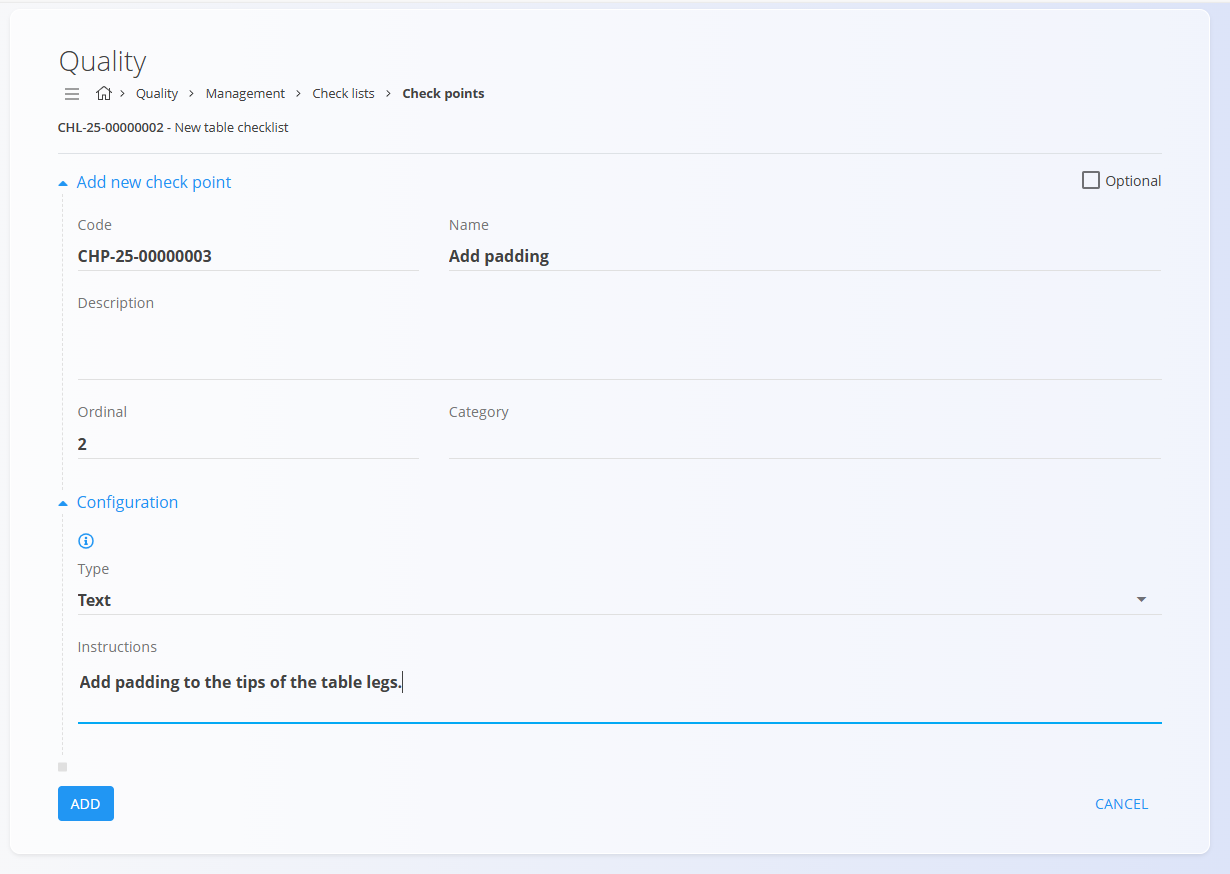
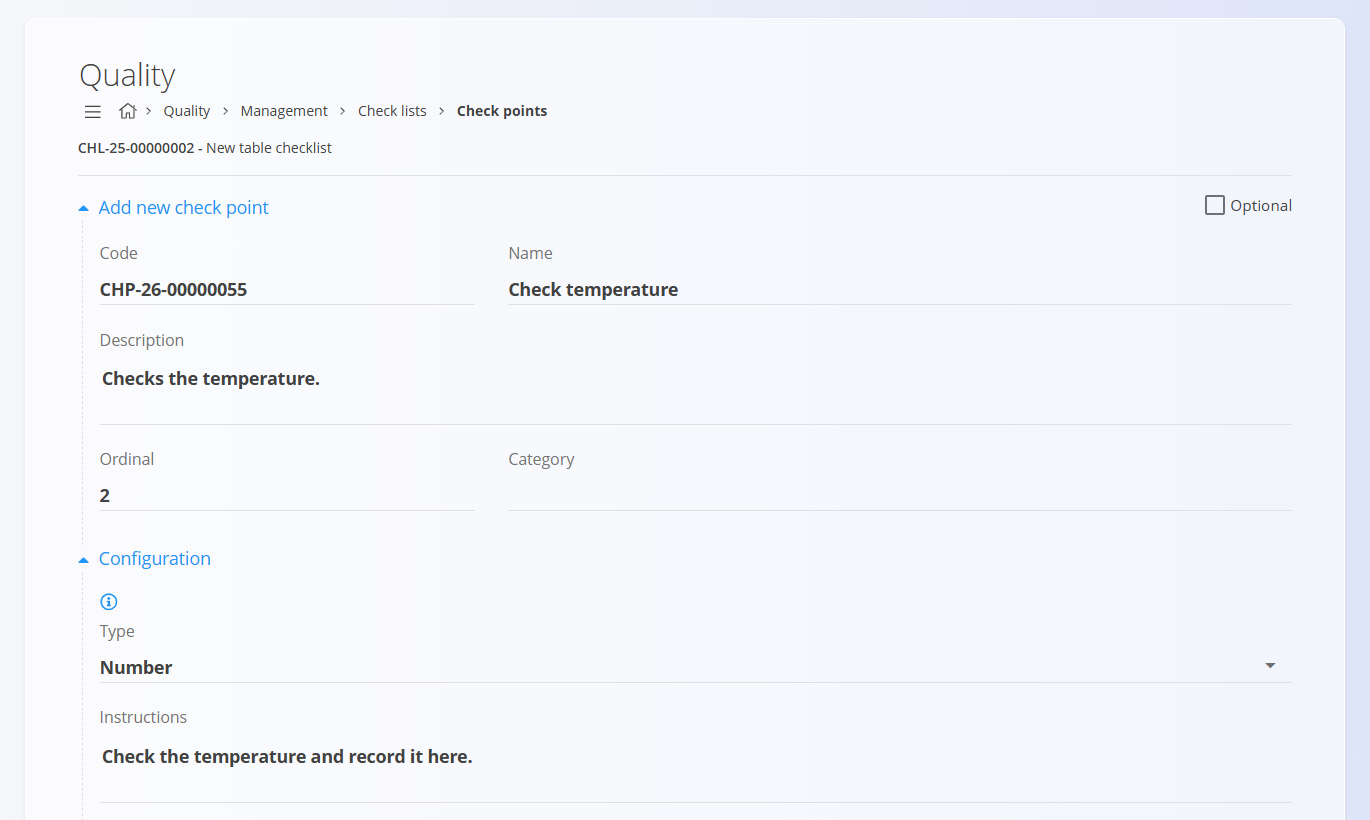
docs(en,sl,hr): document number bounds and other check point types
Number check points now use Lower bound and Upper bound, each with an
inclusive or exclusive operator, instead of Min and Max value. Add a
short explanation and an example for each check point type, the
Optional checkbox, and updated screenshots for the Number form and the
add form.

diff --git a/sl/Domene/Kvaliteta/Upravljanje/KontrolneTocke.md b/sl/Domene/Kvaliteta/Upravljanje/KontrolneTocke.md
@@ -9,7 +9,7 @@ Kontrolne točke pripadajo posamezni **[Kontrolni listi](KontrolneListe.md)** in
 
 Za dostop do kontrolnih točk pojdite na **Kakovost / Upravljanje / Kontrolne liste** v [navigaciji](../../../Skupno/UI/Navigacija.md) in pri želenem kontrolnem seznamu kliknite **Kontrolne točke**.
 
-![Navigacija do kontrolnih točk](../Images/CheckpointButton.png)
+![Navigacija do kontrolnih točk](../Images/CheckpointButtonSL.png)
 
 > [!TIP]
 > Za celovit prikaz si oglejte video vodič **[Kontrolne točke kakovosti](https://www.youtube.com/watch?v=EB7WktBCFC4)**.
@@ -69,9 +69,11 @@ Kontrolne točke je mogoče brisati, razen če je to omejeno z nastavitvami delo
 
 ## Posebnosti glede na tip
 
-Določena polja se prikažejo ali postanejo obvezna glede na izbran **Tip**.
+Določena polja se prikažejo ali postanejo obvezna glede na izbran **Tip**. Za vse tipe potrditveno polje **Neobvezno** določa, ali mora izvajalec kontrolno točko izpolniti.
 
 ### Tip: Označi
+
+Tip **Označi** uporabite za korak, ki ga izvajalec potrdi s kljukico, na primer »Varovalo je nameščeno« ali »Nalepka je pritrjena«. Izvajalec označi potrditveno polje ob **Potrditvenem besedilu**, s čimer je kontrolna točka opravljena. Potrditveno besedilo naj jasno pove, kaj izvajalec potrjuje.
 
 Pri izbiri tipa **Označi** se prikaže dodatno polje:
 
@@ -80,6 +82,8 @@ Pri izbiri tipa **Označi** se prikaže dodatno polje:
 | **Potrditveno besedilo** | Text | Besedilo, prikazano ob potrditvenem polju. |
 
 ### Tip: Seznam
+
+Tip **Seznam** uporabite, kadar izvajalec izbira med vnaprej določenimi možnostmi, na primer »Videz: dober / opraskan / poškodovan«. Nastavite **Število veljavnih vrednosti** na **Ena**, če je mogoče izbrati le eno možnost, ali na **Več**, če lahko velja več možnosti. Možnost, označena kot **Veljavno**, predstavlja sprejemljiv rezultat. Pri kontroli kakovosti neveljavna možnost pomeni težavo, na primer opraskano površino.
 
 Pri izbiri tipa **Seznam** se prikažejo dodatne nastavitve:
 
@@ -103,16 +107,30 @@ Dodane vrednosti so prikazane v tabeli:
 
 ### Tip: Številka
 
+Tip **Številka** uporabite, kadar mora izvajalec vnesti številčno vrednost, na primer odčitek ali meritev. Primer: kontrolna točka »Vnesite temperaturo« z mersko enoto °C, privzeto vrednostjo 23, **Spodnjo mejo** >= 5 in **Zgornjo mejo** <= 35. Izvajalec vpiše izmerjeno temperaturo, kontrolni list pa jo sprejme le, če je znotraj mej.
+
 Pri izbiri tipa **Številka** se prikažejo dodatna polja:
 
 | Atribut | Tip | Opis |
 |----------|------|------|
 | **Merska enota** | Dropdown | Izbira merske enote. |
-| **Najmanjša vrednost** | Number | Najnižja dovoljena vrednost. |
+| **Spodnja meja** | Dropdown in število | Spodnja meja dovoljenih vrednosti. Izberite **>=** (vrednost na meji je dovoljena) ali **>** (dovoljene so samo vrednosti nad mejo), nato vnesite vrednost meje. |
 | **Privzeta vrednost** | Number | Privzeta vrednost za kontrolno točko. |
-| **Največja vrednost** | Number | Najvišja dovoljena vrednost. |
+| **Zgornja meja** | Dropdown in število | Zgornja meja dovoljenih vrednosti. Izberite **<=** (vrednost na meji je dovoljena) ali **<** (dovoljene so samo vrednosti pod mejo), nato vnesite vrednost meje. |
+
+Na primer, če je **Spodnja meja** nastavljena na **>= 5**, je vrednost 5 dovoljena. Pri **> 5** vrednost 5 ni dovoljena, najmanjša dovoljena vrednost pa je nad 5.
+
+![Kontrolna točka tipa Številka](../Images/CheckpointNumberSL.png "Kontrolna točka tipa Številka")
 
 > [!NOTE]
 > Na voljo je povezava do zaslona za upravljanje [**Merske enote**](../../../Skupno/Upravljanje/MerskeEnote.md), kjer lahko dodajate ali urejate merske enote.
 >
 > ![Povezava do merskih enot](../Images/CheckpointMeasureUnitsSL.png)
+
+### Tip: Priponka
+
+Tip **Priponka** uporabite, kadar mora izvajalec priložiti dokaz, na primer fotografijo končnega izdelka ali PDF testnega certifikata. Izvajalec priloži datoteko med izpolnjevanjem kontrolnega lista. Če **Neobvezno** ni označeno, kontrolne točke ni mogoče zaključiti, dokler ni priložena datoteka.
+
+### Tip: Besedilo
+
+Tip **Besedilo** uporabite, kadar mora izvajalec vpisati prosto besedilno opombo, na primer opis napake ali ime pregledovalca serije. Izvajalec vpiše odgovor v polje, ta pa se shrani skupaj s kontrolnim listom.

diff --git a/hr/Domene/Kvaliteta/Upravljanje/KontrolneTocke.md b/hr/Domene/Kvaliteta/Upravljanje/KontrolneTocke.md
@@ -77,9 +77,11 @@ Kontrolnu točku možete obrisati na njezinoj stranici za uređivanje klikom na 
 
 ## Posebnosti prema tipu
 
-Ovisno o odabranom **Tipu**, prikazuju se dodatna polja ili postavke.
+Ovisno o odabranom **Tipu**, prikazuju se dodatna polja ili postavke. Za sve tipove potvrdni okvir **Neobvezno** određuje mora li operater ispuniti kontrolnu točku.
 
 ### Tip: Označi
+
+Tip **Označi** koristite za korak koji operater potvrđuje oznakom, na primjer „Zaštitna ograda je postavljena“ ili „Naljepnica je pričvršćena“. Operater označi potvrdni okvir uz **Tekst za potvrđivanje**, a kontrolna točka je time ispunjena. Tekst za potvrđivanje treba jasno reći što operater potvrđuje.
 
 Kod tipa **Označi** prikazuje se dodatno polje:
 
@@ -88,6 +90,8 @@ Kod tipa **Označi** prikazuje se dodatno polje:
 | **Tekst za potvrđivanje** | Tekst | Tekst prikazan uz potvrdni okvir. |
 
 ### Tip: Popis
+
+Tip **Popis** koristite kada operater bira između unaprijed definiranih opcija, na primjer „Izgled: dobar / ogrebano / oštećeno“. Postavite **Broj valjanih vrijednosti** na **Jedna** ako se može odabrati samo jedna opcija, ili na **Više** ako može vrijediti više opcija. Opcija označena kao **Valjano** predstavlja prihvatljiv rezultat. U kontroli kvalitete opcija koja nije valjana ukazuje na problem, na primjer ogrebanu površinu.
 
 Kod tipa **Popis** prikazuju se dodatne postavke:
 
@@ -108,16 +112,30 @@ Dodane vrijednosti prikazuju se u tablici.
 
 ### Tip: Broj
 
+Tip **Broj** koristite kada operater mora unijeti brojčanu vrijednost, na primjer očitanje ili mjerenje. Primjer: kontrolna točka „Unesite temperaturu“ s mjernom jedinicom °C, zadanom vrijednosti 23, **Donja granica** >= 5 i **Gornja granica** <= 35. Operater upisuje izmjerenu temperaturu, a kontrolni popis prihvaća je samo ako je unutar granica.
+
 Kod tipa **Broj** prikazuju se dodatna polja:
 
 | Atribut | Vrsta | Opis |
 |---------|------|------|
 | [**Mjerna jedinica**](../../../Zajednicko/Upravljanje/MjerneJedinice.md) | Padajući popis | Mjerna jedinica za unesenu vrijednost. |
-| **Najmanja vrijednost** | Broj | Najmanja dopuštena vrijednost. |
+| **Donja granica** | Padajući popis i broj | Donja granica dopuštenih vrijednosti. Odaberite **>=** (vrijednost na granici je dopuštena) ili **>** (dopuštene su samo vrijednosti iznad granice), zatim unesite vrijednost granice. |
+| **Gornja granica** | Padajući popis i broj | Gornja granica dopuštenih vrijednosti. Odaberite **<=** (vrijednost na granici je dopuštena) ili **<** (dopuštene su samo vrijednosti ispod granice), zatim unesite vrijednost granice. |
 | **Zadana vrijednost** | Broj | Zadana vrijednost kontrolne točke. |
-| **Najveća vrijednost** | Broj | Najveća dopuštena vrijednost. |
+
+Na primjer, uz **Donju granicu** postavljenu na **>= 5**, vrijednost 5 je dopuštena. Uz **> 5** vrijednost 5 nije dopuštena, a najmanja dopuštena vrijednost je iznad 5.
+
+![Kontrolna točka tipa Broj](../Images/CheckpointNumberHR.png "Kontrolna točka tipa Broj")
 
 > [!NOTE]
 > Za lakše upravljanje mjernim jedinicama dostupna je poveznica na stranicu **[Mjerne jedinice](../../../Zajednicko/Upravljanje/MjerneJedinice.md)**.
 >
 > ![Mjerne jedinice](../Images/CheckpointMeasureUnitsHR.png)
+
+### Tip: Privitak
+
+Tip **Privitak** koristite kada operater mora priložiti dokaz, na primjer fotografiju gotovog proizvoda ili PDF certifikata o ispitivanju. Operater prilaže datoteku tijekom popunjavanja kontrolnog popisa. Ako nije označeno **Neobvezno**, kontrolnu točku nije moguće dovršiti dok se ne priloži datoteka.
+
+### Tip: Tekst
+
+Tip **Tekst** koristite kada operater mora upisati slobodnu bilješku, na primjer opis nedostatka ili ime inspektora serije. Operater upisuje odgovor u polje, a on se sprema uz kontrolni popis.

diff --git a/en/Domains/Quality/Management/CheckPoints.md b/en/Domains/Quality/Management/CheckPoints.md
@@ -70,9 +70,11 @@ Check points can be deleted freely unless restricted by a workflow configuration
 
 ## Specifics by Type
 
-Certain fields are displayed or become required depending on the selected **Type**.
+Certain fields are displayed or become required depending on the selected **Type**. For every type, the **Optional** checkbox controls whether the operator must fill in the check point.
 
 ### Type: Check
+
+Use the **Check** type for a step the operator confirms with a tick, such as "Safety guard is in place" or "Label is attached". The operator ticks the box next to the **Confirm text**, and the check point is complete. Use **Confirm text** to say exactly what the operator is confirming.
 
 When selecting the **Check** type, an additional field appears:
 
@@ -81,6 +83,8 @@ When selecting the **Check** type, an additional field appears:
 | **Confirm text** | Text | Text displayed next to the checkbox. |
 
 ### Type: List
+
+Use the **List** type when the operator chooses from predefined options, such as "Appearance: good / scratched / damaged". Set **Selection type** to **single** if only one option can be chosen, or **multiple** if several can apply. Mark an option as **Valid** when it is acceptable. In a quality check, an option that is not valid signals a problem, such as a scratched surface.
 
 When selecting the **List** type, additional settings appear:
 
@@ -104,16 +108,30 @@ Added values are displayed in a table:
 
 ### Type: Number
 
+Use the **Number** type when the operator must enter a numeric value, such as a reading or a measurement. For example, a checkpoint "Enter the temperature" with a measure unit of °C, a default value of 23, a lower bound of **>= 5** and an upper bound of **<= 35**. The operator types the measured temperature, and the checklist accepts it only if the value is within the bounds.
+
 When selecting the **Number** type, additional fields appear:
 
 | Attribute | Type | Description |
 |----------|------|-------------|
 | **Measure unit** | Dropdown | Selection of the measurement unit. |
-| **Min value** | Number | Minimum allowed value. |
+| **Lower bound** | Dropdown and number | Lower limit of the allowed values. Select **>=** (the limit itself is accepted) or **>** (only values above the limit are accepted), then enter the limit value. |
+| **Upper bound** | Dropdown and number | Upper limit of the allowed values. Select **<=** (the limit itself is accepted) or **<** (only values below the limit are accepted), then enter the limit value. |
 | **Default value** | Number | Default value for the check point. |
-| **Max value** | Number | Maximum allowed value. |
+
+For example, with **Lower bound** set to **>= 5**, the value 5 is allowed. With **> 5**, the value 5 is not allowed, and the lowest allowed value is above 5.
+
+![Number check point](../Images/CheckpointNumber.png "Number check point")
 
 > [!NOTE]
 > For your convenience there is a link to the [**Measure units**](../../../Common/Management/MeasureUnits.md)  management screen, where you can add or edit measure units.
 >
 > ![Measure units link](../Images/CheckpointMeasureUnits.png)
+
+### Type: File upload
+
+Use the **File upload** type when the operator must attach evidence, such as a photo of the finished product or a PDF of a test certificate. The operator attaches the file while filling in the checklist. If **Optional** is not checked, the check point cannot be completed until a file is attached.
+
+### Type: Text
+
+Use the **Text** type when the operator must write a free-text note, such as a description of a defect or the name of the batch inspector. The operator types the answer in the field, and it is stored with the checklist.

diff --git a/sl/Domene/Kvaliteta/Upravljanje/KontrolneListe.md b/sl/Domene/Kvaliteta/Upravljanje/KontrolneListe.md
@@ -63,7 +63,7 @@ Za upravljanje kontrolnih točk:
 1. Odprite stran **Kontrolne liste**.
 2. Poiščite kontrolno listo in kliknite gumb **Kontrolne točke**.
 
-    ![Navigacija do kontrolnih točk](../Images/CheckpointButton.png)
+    ![Navigacija do kontrolnih točk](../Images/CheckpointButtonSL.png)
 
 Odpre se stran **Kontrolne točke**, kjer lahko kontrolne točke dodajate, urejate, brišete in spreminjate njihov vrstni red.
 
